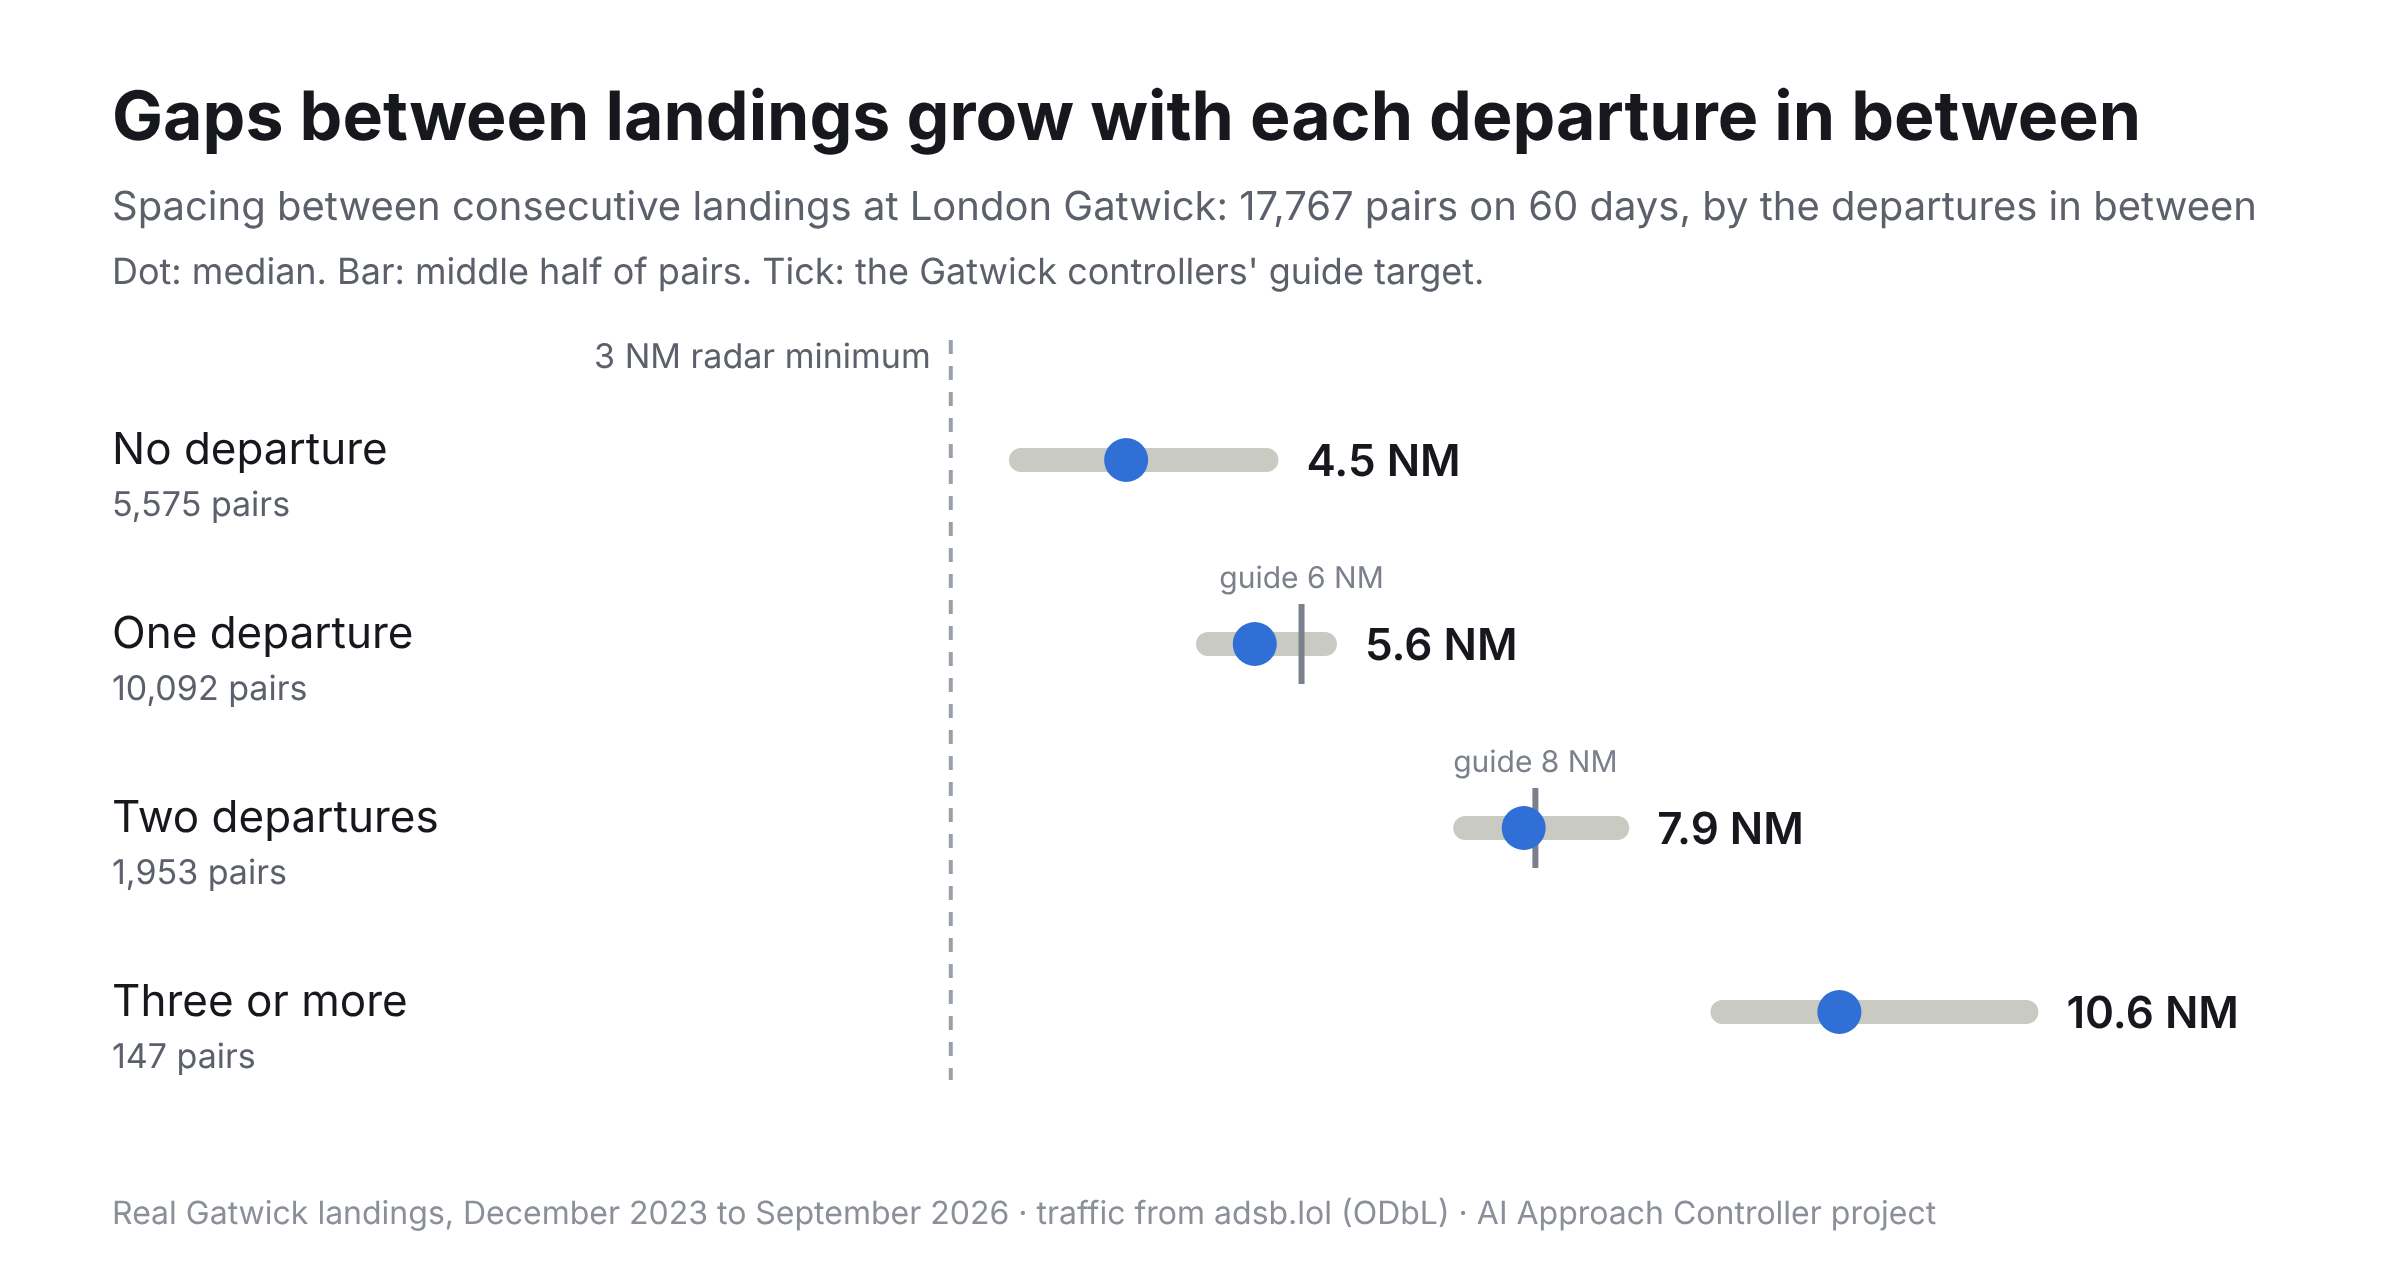
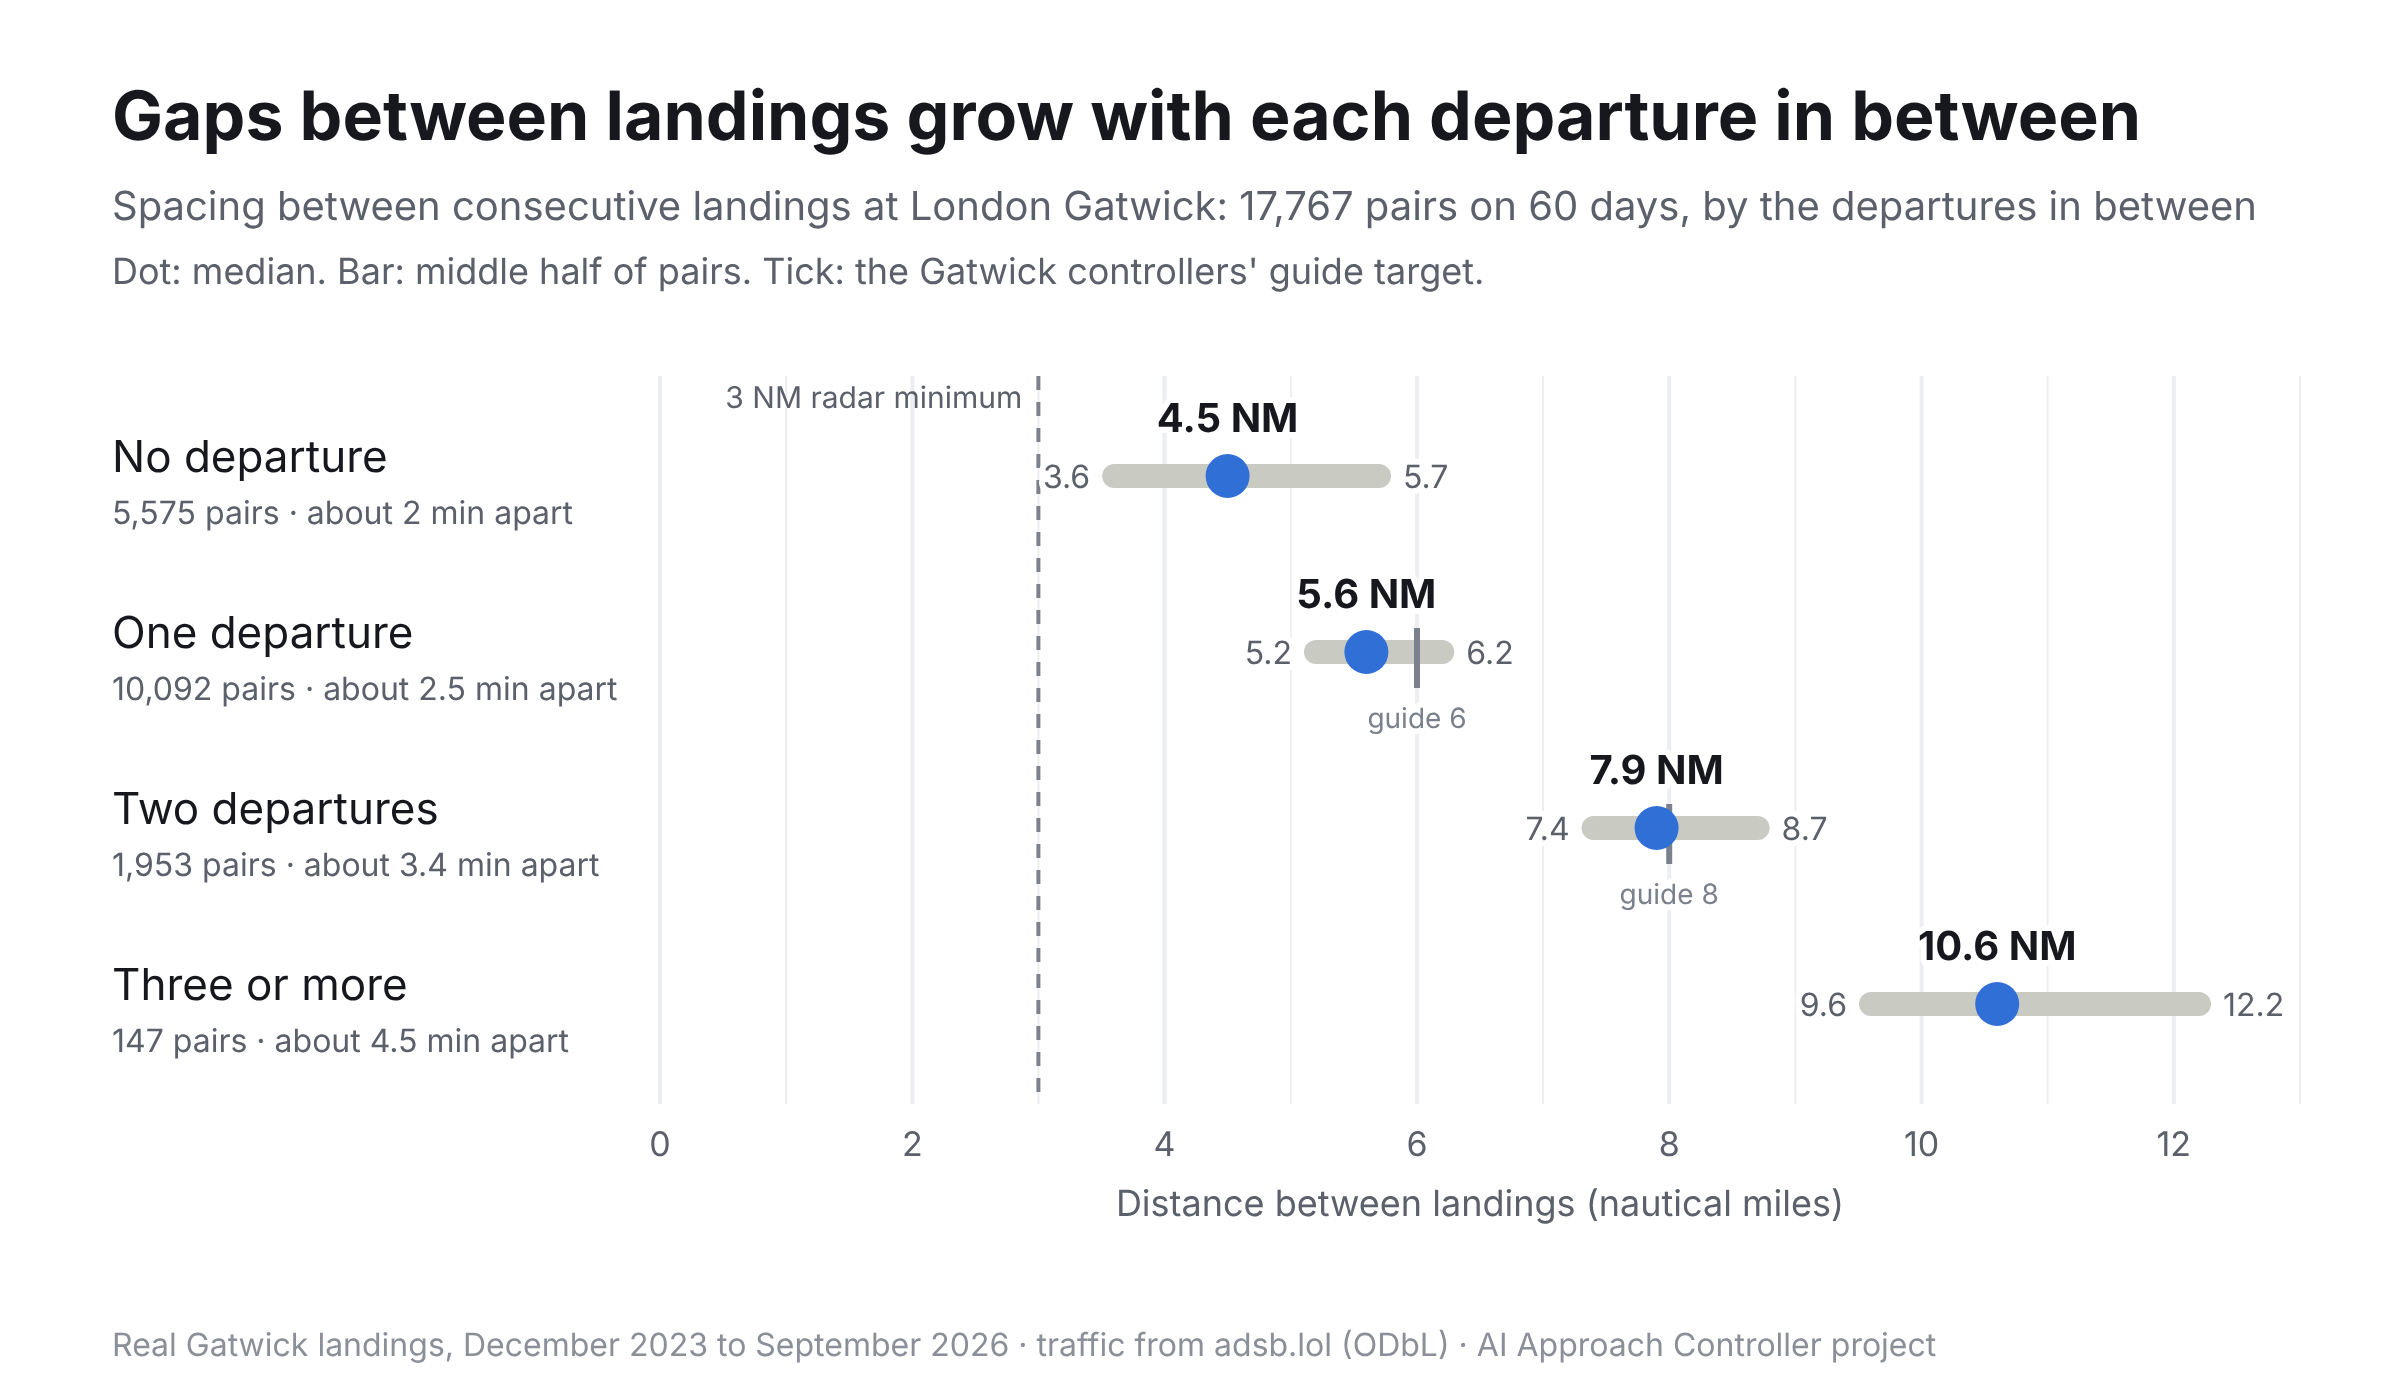
Status report: clearer landing-gaps chart
Values at each end of the grey bars, the median above each dot, 1 NM
gridlines with an axis title, labelled guide ticks and a dashed 3 NM
radar-minimum line. Title, key and source line unchanged.

Claude-Session: https://claude.ai/code/session_01KaEFS3aJqsiCuddtZYH4rg

diff --git a/docs/status-report-2026-11/landing-gaps.html b/docs/status-report-2026-11/landing-gaps.html
@@ -1,33 +1,63 @@
-<!doctype html><html><body style="margin:0"><svg xmlns="http://www.w3.org/2000/svg" viewBox="0 0 1200 640" width="1200" height="640" font-family="Inter, Helvetica, Arial, sans-serif">
-<rect width="1200" height="640" fill="#ffffff"/>
+<!doctype html><html><body style="margin:0"><svg xmlns="http://www.w3.org/2000/svg" viewBox="0 0 1200 700" width="1200" height="700" font-family="Inter, Helvetica, Arial, sans-serif">
+<rect width="1200" height="700" fill="#ffffff"/>
 <text x="56" y="70" font-size="34" font-weight="650" fill="#16181d">Gaps between landings grow with each departure in between</text>
 <text x="56" y="110" font-size="20" fill="#5b606b">Spacing between consecutive landings at London Gatwick: 17,767 pairs on 60 days, by the departures in between</text>
 <text x="56" y="142" font-size="18" fill="#5b606b">Dot: median.  Bar: middle half of pairs.  Tick: the Gatwick controllers' guide target.</text>
-<line x1="475.38461538461536" x2="475.38461538461536" y1="170" y2="540" stroke="#9aa0aa" stroke-width="2" stroke-dasharray="7 6"/>
-<text x="465.38461538461536" y="184" font-size="17" text-anchor="end" fill="#5b606b">3 NM radar minimum</text>
-<text x="56" y="232" font-size="22" fill="#16181d">No departure</text>
-<text x="56" y="258" font-size="17" fill="#5b606b">5,575 pairs</text>
-<line x1="510.46153846153845" x2="633.2307692307693" y1="230" y2="230" stroke="#c9cbc2" stroke-width="12" stroke-linecap="round"/>
-<circle cx="563.0769230769231" cy="230" r="11" fill="#2f6fd6"/>
-<text x="653.2307692307693" y="238" font-size="22" font-weight="600" fill="#16181d">4.5 NM</text>
+<line x1="330.0" x2="330.0" y1="188" y2="552" stroke="#eceef1" stroke-width="2"/>
+<line x1="393.1" x2="393.1" y1="188" y2="552" stroke="#eceef1" stroke-width="1"/>
+<line x1="456.2" x2="456.2" y1="188" y2="552" stroke="#eceef1" stroke-width="2"/>
+<line x1="519.2" x2="519.2" y1="188" y2="552" stroke="#eceef1" stroke-width="1"/>
+<line x1="582.3" x2="582.3" y1="188" y2="552" stroke="#eceef1" stroke-width="2"/>
+<line x1="645.4" x2="645.4" y1="188" y2="552" stroke="#eceef1" stroke-width="1"/>
+<line x1="708.5" x2="708.5" y1="188" y2="552" stroke="#eceef1" stroke-width="2"/>
+<line x1="771.5" x2="771.5" y1="188" y2="552" stroke="#eceef1" stroke-width="1"/>
+<line x1="834.6" x2="834.6" y1="188" y2="552" stroke="#eceef1" stroke-width="2"/>
+<line x1="897.7" x2="897.7" y1="188" y2="552" stroke="#eceef1" stroke-width="1"/>
+<line x1="960.8" x2="960.8" y1="188" y2="552" stroke="#eceef1" stroke-width="2"/>
+<line x1="1023.8" x2="1023.8" y1="188" y2="552" stroke="#eceef1" stroke-width="1"/>
+<line x1="1086.9" x2="1086.9" y1="188" y2="552" stroke="#eceef1" stroke-width="2"/>
+<line x1="1150.0" x2="1150.0" y1="188" y2="552" stroke="#eceef1" stroke-width="1"/>
+<text x="330.0" y="578" font-size="17" text-anchor="middle" fill="#5b606b">0</text>
+<text x="456.2" y="578" font-size="17" text-anchor="middle" fill="#5b606b">2</text>
+<text x="582.3" y="578" font-size="17" text-anchor="middle" fill="#5b606b">4</text>
+<text x="708.5" y="578" font-size="17" text-anchor="middle" fill="#5b606b">6</text>
+<text x="834.6" y="578" font-size="17" text-anchor="middle" fill="#5b606b">8</text>
+<text x="960.8" y="578" font-size="17" text-anchor="middle" fill="#5b606b">10</text>
+<text x="1086.9" y="578" font-size="17" text-anchor="middle" fill="#5b606b">12</text>
+<text x="740" y="608" font-size="18" text-anchor="middle" fill="#5b606b">Distance between landings (nautical miles)</text>
+<line x1="519.2" x2="519.2" y1="188" y2="552" stroke="#7b818c" stroke-width="2" stroke-dasharray="7 6"/>
+<text x="511.2" y="204" font-size="15" text-anchor="end" fill="#5b606b">3 NM radar minimum</text>
+<text x="56" y="236" font-size="22" fill="#16181d">No departure</text>
+<text x="56" y="262" font-size="16" fill="#5b606b">5,575 pairs · about 2 min apart</text>
+<line x1="557.1" x2="689.5" y1="238" y2="238" stroke="#c9cbc2" stroke-width="12" stroke-linecap="round"/>
+<text x="545.1" y="244" font-size="16" text-anchor="end" fill="#5b606b" stroke="#ffffff" stroke-width="6" paint-order="stroke" stroke-linejoin="round">3.6</text>
+<text x="701.5" y="244" font-size="16" fill="#5b606b" stroke="#ffffff" stroke-width="6" paint-order="stroke" stroke-linejoin="round">5.7</text>
+<circle cx="613.8" cy="238" r="11" fill="#2f6fd6"/>
+<text x="613.8" y="216" font-size="20" font-weight="650" text-anchor="middle" fill="#16181d" stroke="#ffffff" stroke-width="6" paint-order="stroke" stroke-linejoin="round">4.5 NM</text>
 <text x="56" y="324" font-size="22" fill="#16181d">One departure</text>
-<text x="56" y="350" font-size="17" fill="#5b606b">10,092 pairs</text>
-<line x1="604.0" x2="662.4615384615386" y1="322" y2="322" stroke="#c9cbc2" stroke-width="12" stroke-linecap="round"/>
-<line x1="650.7692307692307" x2="650.7692307692307" y1="302" y2="342" stroke="#7b818c" stroke-width="3"/>
-<text x="650.7692307692307" y="294" font-size="15" text-anchor="middle" fill="#7b818c">guide 6 NM</text>
-<circle cx="627.3846153846154" cy="322" r="11" fill="#2f6fd6"/>
-<text x="682.4615384615386" y="330" font-size="22" font-weight="600" fill="#16181d">5.6 NM</text>
-<text x="56" y="416" font-size="22" fill="#16181d">Two departures</text>
-<text x="56" y="442" font-size="17" fill="#5b606b">1,953 pairs</text>
-<line x1="732.6153846153845" x2="808.6153846153845" y1="414" y2="414" stroke="#c9cbc2" stroke-width="12" stroke-linecap="round"/>
-<line x1="767.6923076923077" x2="767.6923076923077" y1="394" y2="434" stroke="#7b818c" stroke-width="3"/>
-<text x="767.6923076923077" y="386" font-size="15" text-anchor="middle" fill="#7b818c">guide 8 NM</text>
-<circle cx="761.8461538461538" cy="414" r="11" fill="#2f6fd6"/>
-<text x="828.6153846153845" y="422" font-size="22" font-weight="600" fill="#16181d">7.9 NM</text>
-<text x="56" y="508" font-size="22" fill="#16181d">Three or more</text>
-<text x="56" y="534" font-size="17" fill="#5b606b">147 pairs</text>
-<line x1="861.2307692307692" x2="1013.2307692307693" y1="506" y2="506" stroke="#c9cbc2" stroke-width="12" stroke-linecap="round"/>
-<circle cx="919.6923076923077" cy="506" r="11" fill="#2f6fd6"/>
-<text x="1033.2307692307693" y="514" font-size="22" font-weight="600" fill="#16181d">10.6 NM</text>
-<text x="56" y="612" font-size="16" fill="#8a8f98">Real Gatwick landings, December 2023 to September 2026 · traffic from adsb.lol (ODbL) · AI Approach Controller project</text>
+<text x="56" y="350" font-size="16" fill="#5b606b">10,092 pairs · about 2.5 min apart</text>
+<line x1="658.0" x2="721.1" y1="326" y2="326" stroke="#c9cbc2" stroke-width="12" stroke-linecap="round"/>
+<text x="646.0" y="332" font-size="16" text-anchor="end" fill="#5b606b" stroke="#ffffff" stroke-width="6" paint-order="stroke" stroke-linejoin="round">5.2</text>
+<text x="733.1" y="332" font-size="16" fill="#5b606b" stroke="#ffffff" stroke-width="6" paint-order="stroke" stroke-linejoin="round">6.2</text>
+<line x1="708.5" x2="708.5" y1="314" y2="344" stroke="#7b818c" stroke-width="3"/>
+<text x="708.5" y="364" font-size="14" text-anchor="middle" fill="#7b818c" stroke="#ffffff" stroke-width="6" paint-order="stroke" stroke-linejoin="round">guide 6</text>
+<circle cx="683.2" cy="326" r="11" fill="#2f6fd6"/>
+<text x="683.2" y="304" font-size="20" font-weight="650" text-anchor="middle" fill="#16181d" stroke="#ffffff" stroke-width="6" paint-order="stroke" stroke-linejoin="round">5.6 NM</text>
+<text x="56" y="412" font-size="22" fill="#16181d">Two departures</text>
+<text x="56" y="438" font-size="16" fill="#5b606b">1,953 pairs · about 3.4 min apart</text>
+<line x1="796.8" x2="878.8" y1="414" y2="414" stroke="#c9cbc2" stroke-width="12" stroke-linecap="round"/>
+<text x="784.8" y="420" font-size="16" text-anchor="end" fill="#5b606b" stroke="#ffffff" stroke-width="6" paint-order="stroke" stroke-linejoin="round">7.4</text>
+<text x="890.8" y="420" font-size="16" fill="#5b606b" stroke="#ffffff" stroke-width="6" paint-order="stroke" stroke-linejoin="round">8.7</text>
+<line x1="834.6" x2="834.6" y1="402" y2="432" stroke="#7b818c" stroke-width="3"/>
+<text x="834.6" y="452" font-size="14" text-anchor="middle" fill="#7b818c" stroke="#ffffff" stroke-width="6" paint-order="stroke" stroke-linejoin="round">guide 8</text>
+<circle cx="828.3" cy="414" r="11" fill="#2f6fd6"/>
+<text x="828.3" y="392" font-size="20" font-weight="650" text-anchor="middle" fill="#16181d" stroke="#ffffff" stroke-width="6" paint-order="stroke" stroke-linejoin="round">7.9 NM</text>
+<text x="56" y="500" font-size="22" fill="#16181d">Three or more</text>
+<text x="56" y="526" font-size="16" fill="#5b606b">147 pairs · about 4.5 min apart</text>
+<line x1="935.5" x2="1099.5" y1="502" y2="502" stroke="#c9cbc2" stroke-width="12" stroke-linecap="round"/>
+<text x="923.5" y="508" font-size="16" text-anchor="end" fill="#5b606b" stroke="#ffffff" stroke-width="6" paint-order="stroke" stroke-linejoin="round">9.6</text>
+<text x="1111.5" y="508" font-size="16" fill="#5b606b" stroke="#ffffff" stroke-width="6" paint-order="stroke" stroke-linejoin="round">12.2</text>
+<circle cx="998.6" cy="502" r="11" fill="#2f6fd6"/>
+<text x="998.6" y="480" font-size="20" font-weight="650" text-anchor="middle" fill="#16181d" stroke="#ffffff" stroke-width="6" paint-order="stroke" stroke-linejoin="round">10.6 NM</text>
+<text x="56" y="678" font-size="16" fill="#8a8f98">Real Gatwick landings, December 2023 to September 2026 · traffic from adsb.lol (ODbL) · AI Approach Controller project</text>
 </svg></body></html>
